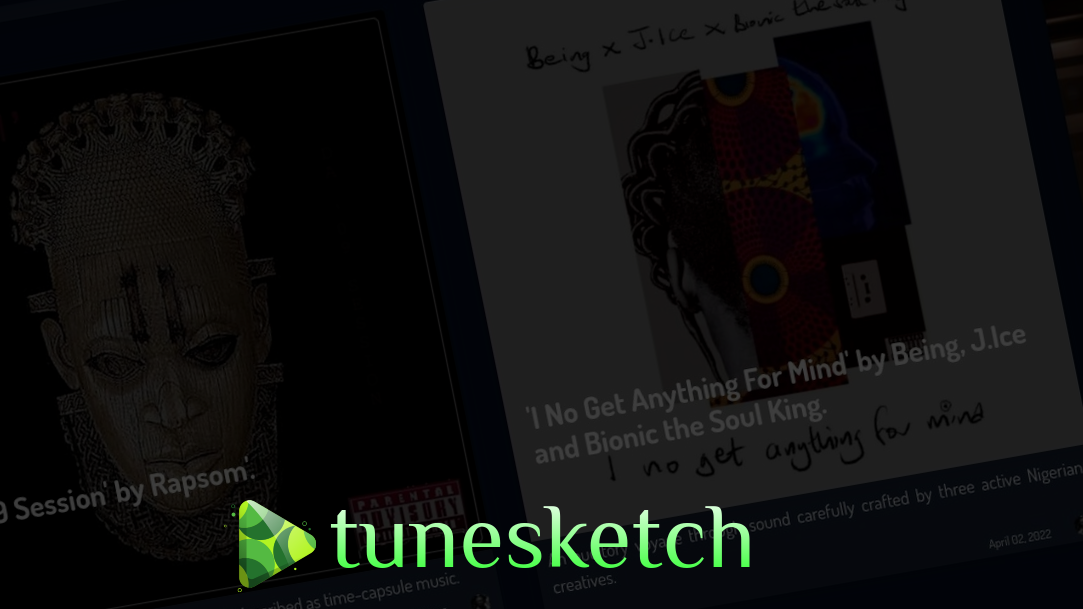
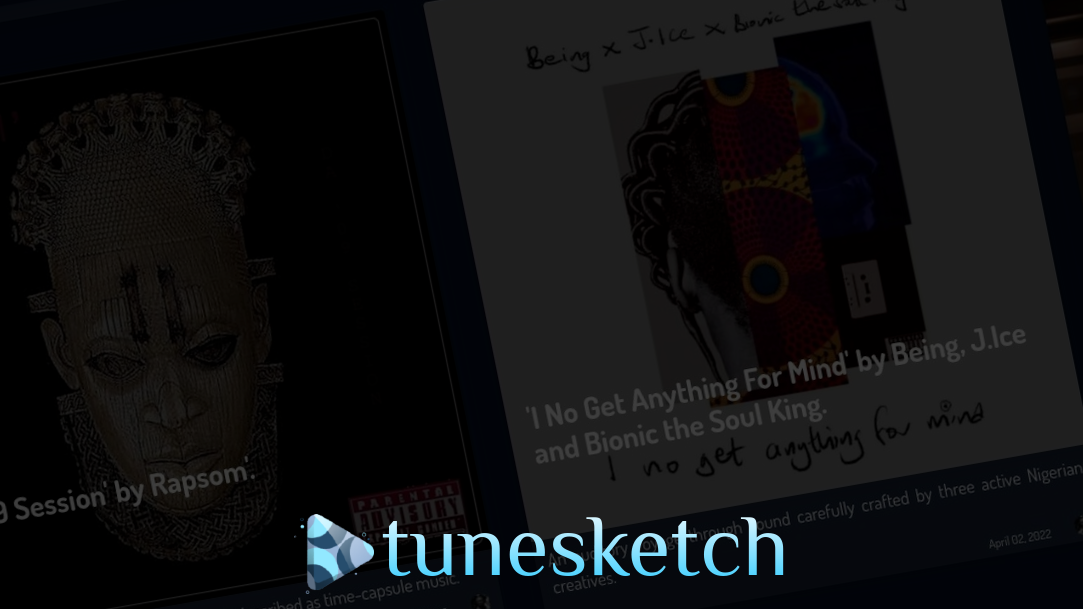
slug meta background image change

Changed region(s): [[0.2133, 0.8112, 0.7313, 0.9672]]

diff --git a/pages/posts/[slug].js b/pages/posts/[slug].js
@@ -133,7 +133,7 @@ export async function getServerSideProps({ params: {slug} }){
         cloud_name: 'dbqn6vejg'
     })
 
-    const cloudinaryUrl = cloudinary.url('slugMetaBackground_qdxgix', {
+    const cloudinaryUrl = cloudinary.url('card-background_gks1q4', {
         width: 1012,
         height: 506,
         transformation: [
